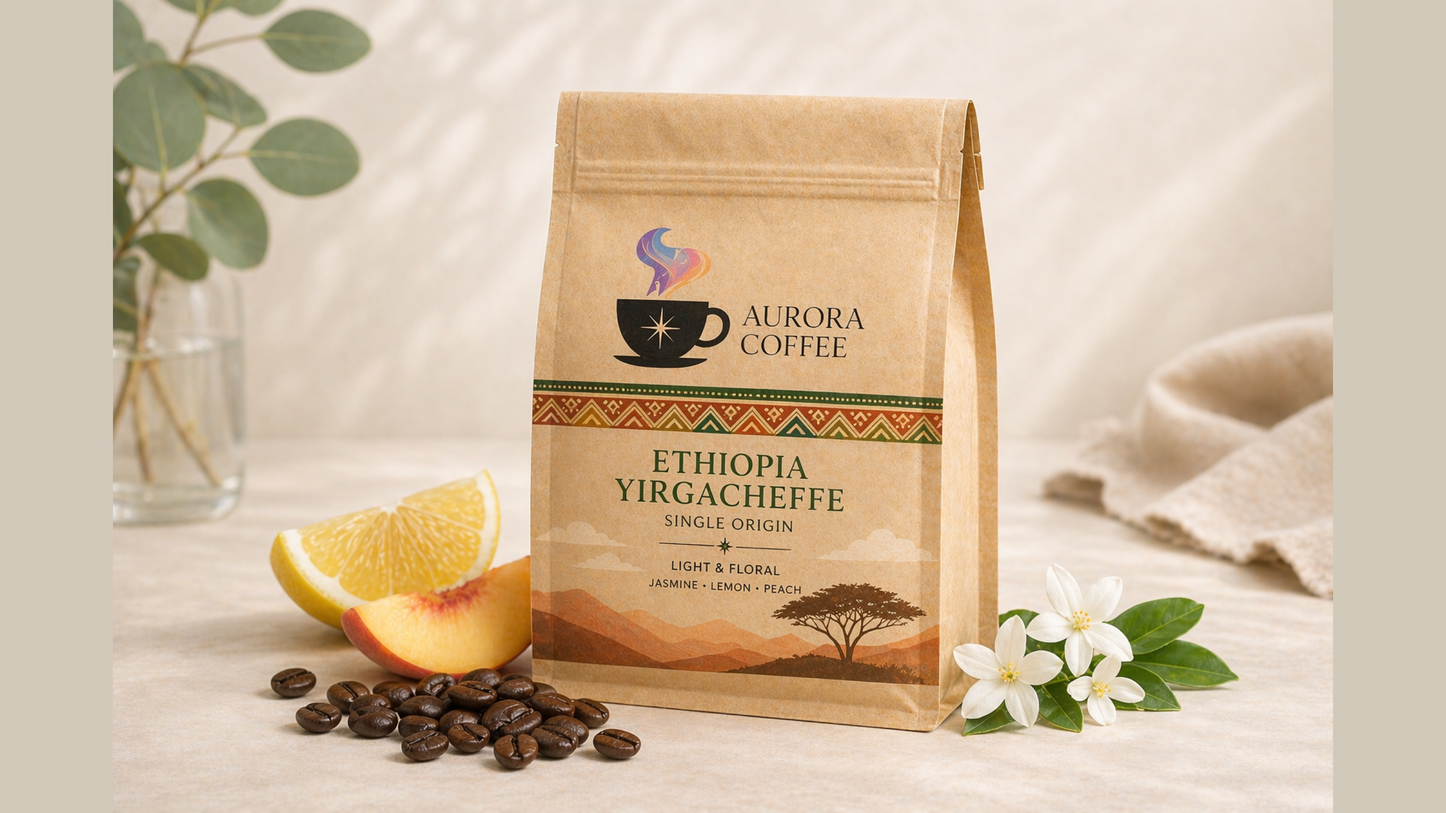
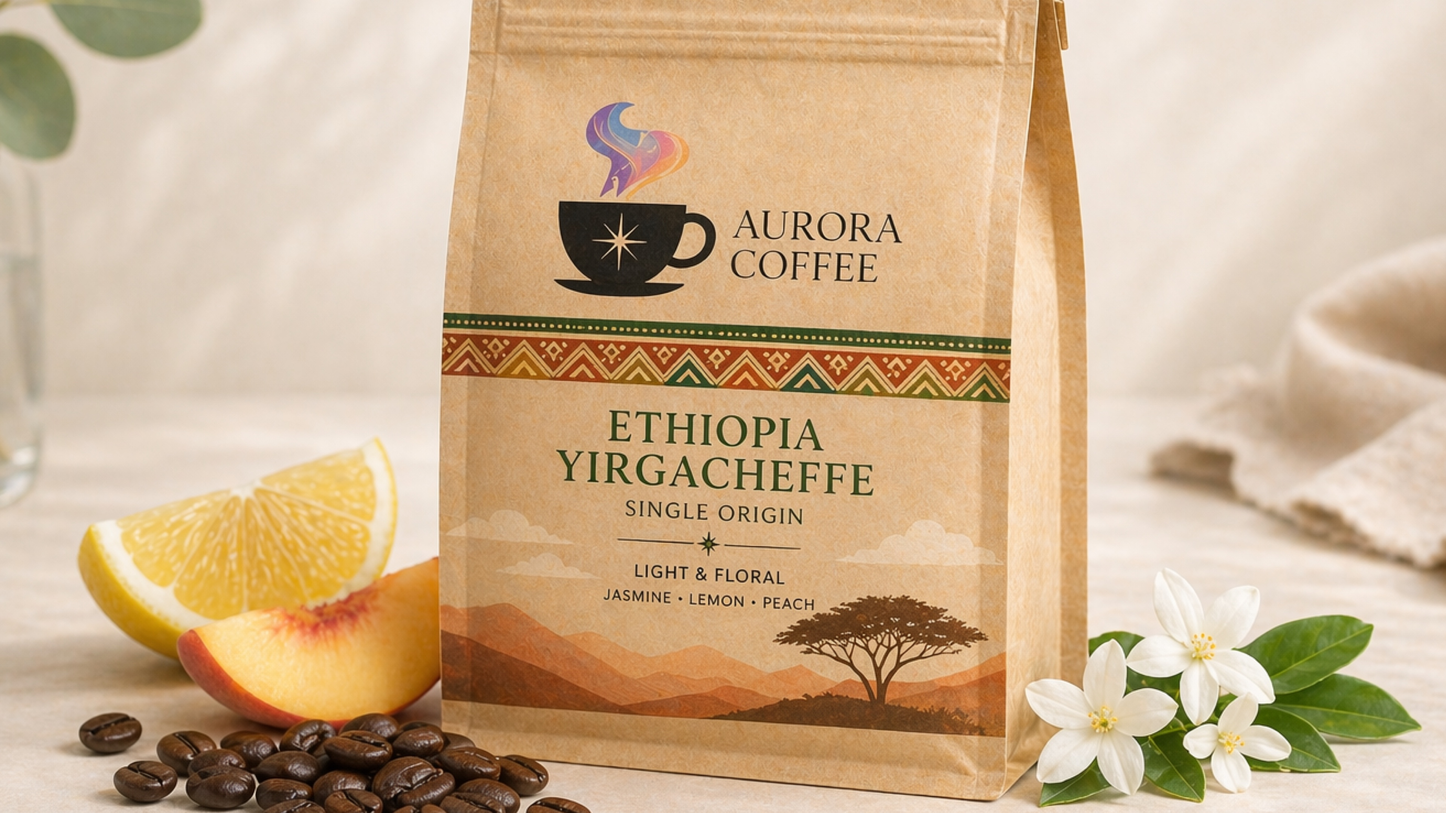
fill the bag frame

diff --git a/Frontend/src/lib/productImages.js b/Frontend/src/lib/productImages.js
@@ -51,6 +51,30 @@ const coffeeGallerySlugs = new Set([
 
 const coffeeGallerySizeKeys = ['250g', '500g', '1kg']
 
+const coffeePackageSizeOptionGroup = Object.freeze({
+  code: 'packageSize',
+  name: 'Package size',
+  isRequired: false,
+  storeAsVariant: false,
+  values: Object.freeze([
+    {
+      valueCode: '250g',
+      label: '250g',
+      description: 'Compact bag for tasting and short-batch freshness.',
+    },
+    {
+      valueCode: '500g',
+      label: '500g',
+      description: 'Balanced everyday bag for regular home brewing.',
+    },
+    {
+      valueCode: '1kg',
+      label: '1kg',
+      description: 'Large format bag for frequent brewing and offices.',
+    },
+  ]),
+})
+
 const productAttributeImageByFilename = Object.freeze(
   Object.fromEntries(
     Object.entries(productAttributeImageModules).map(([path, src]) => [
@@ -104,6 +128,44 @@ function normalizeSizeKey(value) {
   }
 
   return ''
+}
+
+function getSelectedSizeKeyFromSelection(selectedOptionsByGroup) {
+  if (!selectedOptionsByGroup || typeof selectedOptionsByGroup !== 'object') {
+    return ''
+  }
+
+  for (const [groupKey, selectedCode] of Object.entries(selectedOptionsByGroup)) {
+    const selectedSizeKey = normalizeSizeKey([groupKey, selectedCode].filter(Boolean).join(' '))
+
+    if (selectedSizeKey) {
+      return selectedSizeKey
+    }
+  }
+
+  return ''
+}
+
+function hasSizeOptionGroup(optionGroups) {
+  return (optionGroups || []).some((group) => {
+    const groupIdentity = normalizeSizeKey([group?.name, group?.code, group?.id].filter(Boolean).join(' '))
+
+    if (groupIdentity) {
+      return true
+    }
+
+    return (group?.values || []).some((optionValue) =>
+      normalizeSizeKey(
+        [
+          optionValue?.label,
+          optionValue?.valueCode,
+          optionValue?.id,
+        ]
+          .filter(Boolean)
+          .join(' '),
+      ),
+    )
+  })
 }
 
 function normalizeGalleryEntry(entry, index = 0) {
@@ -180,6 +242,12 @@ function normalizeSelectedOptionCode(product, selectedOptionsByGroup, group) {
 }
 
 function getSelectedGalleryVariantKey(product, selectedOptionsByGroup) {
+  const selectedSizeKey = getSelectedSizeKeyFromSelection(selectedOptionsByGroup)
+
+  if (selectedSizeKey) {
+    return selectedSizeKey
+  }
+
   const optionGroups = Array.isArray(product?.options) ? product.options : []
 
   for (const group of optionGroups) {
@@ -289,6 +357,19 @@ export function getPreferredProductGalleryIndex(product, selectedOptionsByGroup 
   }
 
   return 0
+}
+
+export function getProductGalleryOptionGroups(product, optionGroups = []) {
+  const normalizedOptionGroups = Array.isArray(optionGroups)
+    ? optionGroups.filter((group) => Array.isArray(group?.values) && group.values.length)
+    : []
+  const slug = normalizeCode(product?.slug)
+
+  if (!coffeeGallerySlugs.has(slug) || hasSizeOptionGroup(normalizedOptionGroups)) {
+    return normalizedOptionGroups
+  }
+
+  return [coffeePackageSizeOptionGroup, ...normalizedOptionGroups]
 }
 
 export function getGeneratedProductImageUrl(product) {

diff --git a/Frontend/src/pages/ProductDetailPage.jsx b/Frontend/src/pages/ProductDetailPage.jsx
@@ -31,6 +31,7 @@ import {
 import {
   getPreferredProductGalleryIndex,
   getProductGalleryImages,
+  getProductGalleryOptionGroups,
 } from '../lib/productImages'
 import { getTaxInclusionCopy, getUnitPriceBreakdown } from '../lib/tax'
 
@@ -1484,9 +1485,11 @@ export default function ProductDetailPage() {
       return []
     }
 
-    return Array.isArray(product.options)
+    const backendOptionGroups = Array.isArray(product.options)
       ? product.options.filter((group) => Array.isArray(group.values) && group.values.length)
       : []
+
+    return getProductGalleryOptionGroups(product, backendOptionGroups)
   }, [product])
   const rawSelectedOptions =
     optionSelection.productSlug === product?.slug ? optionSelection.values : {}

diff --git a/Frontend/src/styles/34-product-cards.css b/Frontend/src/styles/34-product-cards.css
@@ -47,12 +47,12 @@
 }
 
 .aurora-product-media.is-card {
-  aspect-ratio: 4 / 3;
+  aspect-ratio: 16 / 9;
   border-radius: 1.55rem;
 }
 
 .aurora-product-media.is-detail {
-  aspect-ratio: 16 / 10;
+  aspect-ratio: 16 / 9;
   border-radius: 1.85rem;
 }
 
